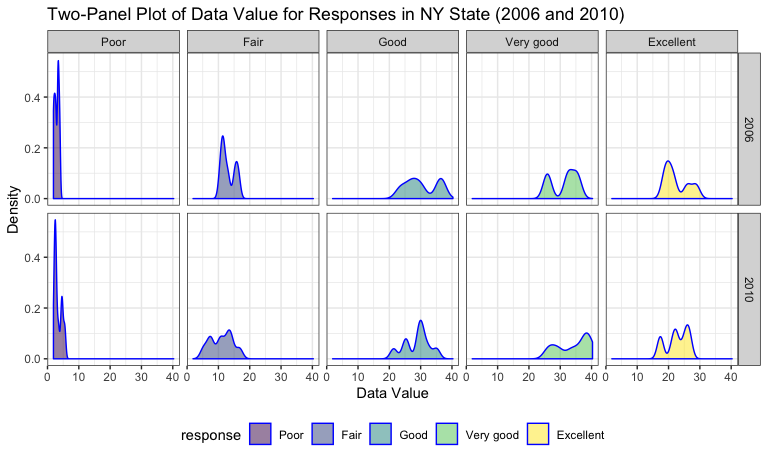
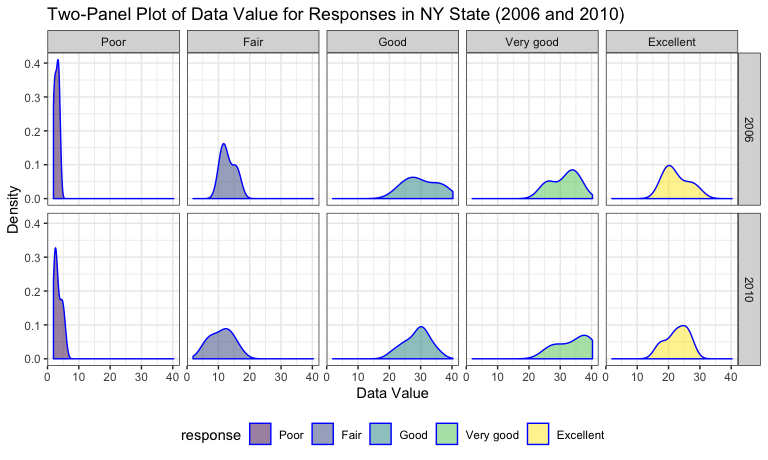
a slight adjust for two-panel plot for probelm2

diff --git a/p8105-hw3_rw2708.md b/p8105-hw3_rw2708.md
@@ -78,7 +78,7 @@ ordered from.
 ``` r
 #generate the dataframe for plotting
 plot_aisle = count_aisle %>% 
-  filter(count_aisle >= 10000) %>% 
+  filter(count_aisle > 10000) %>% 
   arrange(count_aisle) %>% 
   #change the order level of aisle according to the value of count_aisle 
   mutate(aisle = forcats::fct_reorder(aisle, count_aisle)) %>% 
@@ -322,7 +322,7 @@ data_penal <- brfss_clean %>%
   #make a density plot for distribution of data_value for responses in NY fro 2006 and 2010
   group_by(response) %>% 
   ggplot(aes(x = data_value, fill = response)) + 
-  geom_density(alpha = .5, adjust = .5, color = "blue") +
+  geom_density(alpha = .5, adjust=1, color = "blue") +
   facet_grid(year~response) +
    labs(
     title = "Two-Panel Plot of Data Value for Responses in NY State (2006 and 2010)",
@@ -455,9 +455,6 @@ analysis_activity = P3_data %>%
 ``` r
 #exploring the trend
 trend_activity = analysis_activity %>% 
-  #ggplot(aes(x = day_id, y = total_activity)) +
-  #geom_col(aes(fill = day_id)) +
-   #labs(title = " Trend for Total Activity Over the Day ", x = "Day",  y = "Total Activity") 
   mutate(day = day_id) %>% 
   ggplot(aes(x = day, y = total_activity)) +
   geom_point(aes(color = day), alpha = 0.5) +
